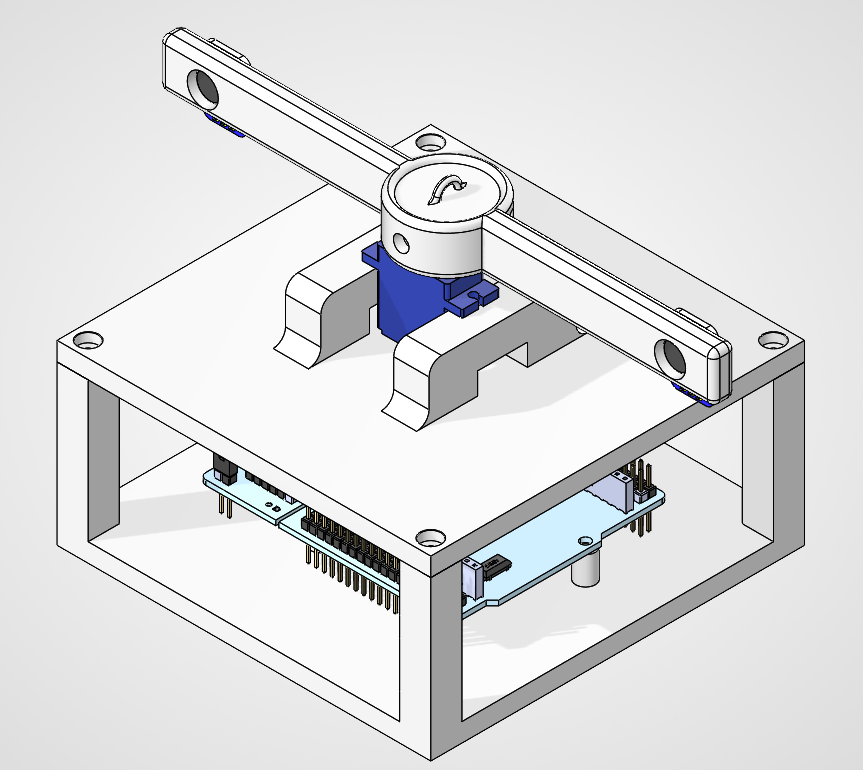
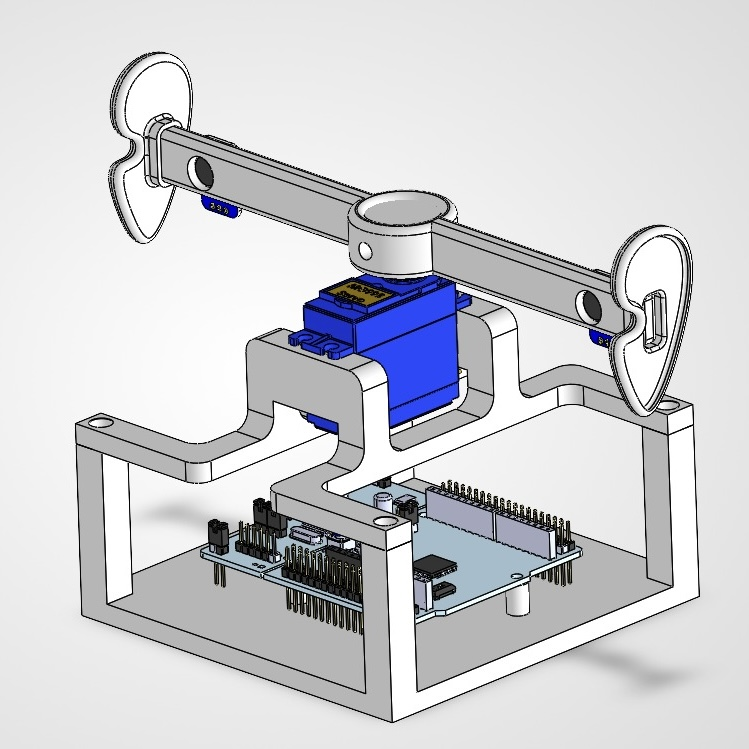
Finalized report

diff --git a/README.md b/README.md
@@ -5,6 +5,8 @@
 | Samuele Ribaudo | 03821248 | samuele.ribaudo@tum.de |
 | Hong Yan Jun  | 03813507 | go75kes@mytum.de |
 
+> To see the engineering challenges we encountered and our solutions to overcome them, check out the [technical report ↗](documentation/techincal_report.md)
+
 ## 1. Project overview
 
 This project is a robotic "hearing" system that can detect where a sound is coming from and automatically turn to face it.
@@ -48,7 +50,7 @@ To overcome the processing limitations of the micro controller and the physical 
 | Acoustic foam block | 1 | High-density foam sponge to block rear audio signals. |
 | RGB LED | 1 | A 4 pin RGB LED that provides real-time visual feedback of the state machine. It acts as a crucial flag for modular robotic design, flashing red when the target escapes the 180° physical field of hearing to trigger a "handoff" to a theoretical humanoid torso. |
 | 330 Ohm resistor | 3 | Resistors placed in series with the RGB LED channels to prevent overcurrent damage. |
-| PLA filament (3D Printing) | 1 | Material for printing the frame, board and servo mounts. |
+| PLA and TPU filament (3D Printing) | 1 | Material for printing the frame, board, servo mounts and ears (TPU). |
 | Assorted wires | 1 | General circuit routing and power distribution. |
 
 ---
@@ -57,29 +59,32 @@ To overcome the processing limitations of the micro controller and the physical 
 The system architecture utilizes dedicated hardware peripherals on the NUCLEO-U083RC board to handle high-speed data acquisition and actuation without blocking core application logic. The diagram below details the exact physical signal and power routing for each system component.
 
 ```text
-                                +-------------------------------+
-                                |     STM32U083RC (Nucleo)      |
-        Analog Left Mic         |                               |       180° Servo Morot
-    +--------------------+      |                               |      +------------------+
-    |     OUT / Signal  o|----->|[PC0]                    [PA15]|----->|o  PWM signal     |
-    |              VCC  o|------|[5V]                       [5V]|------|o  VCC            |
-    |              GND  o|------|[GND]                     [GND]|------|o  GND            |
-    +--------------------+      |         +-----------+         |      +------------------+
-                                |         |           |         |
-        Analog Right Mic        |         |   STM32   |         |           RGB LED
-    +--------------------+      |         |           |         |      +------------------+
-    |     OUT / Signal  o|----->|[PC1]    +-----------+   [PB13]|----->|o  Red channel    |
-    |              VCC  o|------|[5V]                     [PB14]|----->|o  Green channel  |
-    |              GND  o|------|[GND]                    [PB15]|----->|o  Blue channel   |
-    +--------------------+      |                          [GND]|------|o  GND            |
-                                |                               |      +------------------+
-                                +-------------------------------+
+                                ┌───────────────────────────────┐
+                                │     STM32U083RC (Nucleo)      │                               5V power supply
+                                │                               │                             ┌────────────────┐
+                                │                          [GND]│─────────────────────────────│o  GND          │
+                                │                          [VDD]│───┬─────────────────────────│o  5V           │
+        Analog Left Mic         │                               │   │   180° Servo Morot      └────────────────┘
+    ┌────────────────────┐      │                               │   │  ┌──────────────────┐
+    │     OUT / Signal  o│─────>│[PC0]                          │   └──│o  VCC            │
+    │              VCC  o│──────│[5V]                     [PA15]│─────>│o  PWM signal     │
+    │              GND  o│──────│[GND]                     [GND]│──────│o  GND            │
+    └────────────────────┘      │         ┌───────────┐         │      └──────────────────┘
+                                │         │           │         │
+        Analog Right Mic        │         │   STM32   │         │           RGB LED
+    ┌────────────────────┐      │         │           │         │      ┌──────────────────┐
+    │     OUT / Signal  o│─────>│[PC1]    └───────────┘   [PB13]│─────>│o  Red channel    │
+    │              VCC  o│──────│[5V]                     [PB14]│─────>│o  Green channel  │
+    │              GND  o│──────│[GND]                    [PB15]│─────>│o  Blue channel   │
+    └────────────────────┘      │                          [GND]│──────│o  GND            │
+                                │                               │      └──────────────────┘
+                                └───────────────────────────────┘
 ```
 
 To improve system readability and simplify debugging, we adopted a standardized, purpose-driven wire coloring scheme:
 
 | Wire color | Purpose / Connection |
-| :--- | :--- |
+| --- | --- |
 | White | Main 5V power supply line routed to the components. |
 | Black | Common Ground (GND) connection to establish a shared reference plane. |
 | Red | Digital control for the RGB LED Red channel. |
@@ -182,3 +187,36 @@ stateDiagram-v2
 * `STATE_OUT_OF_BOUNDS` (Red Flash): The out-of-bounds flag is cleared, and the system flashes the red LED to provide a visual warning that the target exceeded the 180° physical limit. Once the flashing sequence finishes, it returns to `STATE_LISTEN`.
 
 ---
+
+## 8. System validation and results
+
+The digital signal processing (DSP) pipeline was fully validated on the NUCLEO-U083RC microcontroller, proving that the real-time cross-correlation and Time Delay of Arrival (TDOA) algorithms accurately track acoustic sources.
+
+### 8.1 Signal filtering performance
+To isolate human speech from environmental noise, the incoming audio passes through a custom 6th-order Butterworth bandpass filter (300 Hz to 3000 Hz). As shown below, the filter successfully suppresses low-frequency hums (100 Hz) and high-frequency noise (6 kHz), completely flattening the noise floor to provide clean signals for cross-correlation:
+
+![Signal Filtering Output](documentation/utils/analysis_baseline.png)
+> *Figure: Raw recording with environmental noise disturbances (top) and the resulting clean, flattened noise floor after 6th-order filtering (bottom).*
+
+### 8.2 Pipeline execution and sound tracking
+When a sound is detected, the conditioned signals undergo a boundary-optimized cross-correlation to pinpoint the exact time delay. 
+
+The system validation capture below highlights a successful test with a sound source on the right side. The pipeline filters out heavy background noise and produces a sharp, singular cross-correlation peak at a 22-sample lag. This precise shift allows the geometric logic to accurately calculate the angle and smoothly actuate the servo motor toward the target.
+
+![Pipeline and Cross-Correlation Validation](documentation/utils/analysis_right.png)
+> *Figure: Complete validation of a right-side tracking test showing raw signals (top), filtered speech waveforms (middle), and the distinct cross-correlation peak used for TDOA calculation (bottom).*
+
+
+---
+
+## 9. Conclusions
+
+The development of the Real-Time Sound Source Localization and Tracking System yielded highly satisfactory results. The custom DSP pipeline executes entirely on the MCU and works exceptionally well to accurately calculate the Time Delay of Arrival (TDOA).
+
+While 1D horizontal tracking is fully functional, the primary limitation of the current two-microphone array is the cone of confusion, which is the geometric ambiguity where sounds originating from the front and back (or at different elevations) produce identical time delays. 
+
+To overcome this, future iterations of the project can explore two distinct paths for 3D localization:
+
+* **Adding a third microphone**: Introducing a third microphone to form a planar triangular array. This extra spatial dimension would provide a secondary TDOA axis, completely resolving front/back ambiguity and enabling full 2D azimuth and elevation tracking.
+
+* **Biomimetic spectral mapping**: Replicating the acoustic filtering of the human pinna (outer ear). By designing custom acoustic structures around the existing two microphones, incoming sound waves will bounce and attenuate differently depending on their angle of incidence. Because these unique spectral patterns modify the frequency response, a machine learning model or an AI-driven mapping pipeline could be trained to recognize these signatures, enabling true 3D localization using only two channels.

diff --git a/documentation/techincal_report.md b/documentation/techincal_report.md
@@ -93,7 +93,7 @@ stateDiagram-v2
 
 ---
 
-## 4. CAD design
+## 4. CAD design (Ryan)
 For the CAD design, we started with a first sketch and then bring it into 3-dimensional space with Solidworks. The first design was a proof of concept so that we could be sure that the system could actually be implemented physically and all the components could be connected functionally with each other. We started designing the system with a rough estimate of the measurements because we did not have the components yet. After receiving the components, we had to implement the correct measurements in our design. so that Once the first design has been materialized and our first prototype was fully functional, we switch our focus on the aesthetic aspect of the design to make look cooler instead of just square edges everywhere. In the first design, the cables connection were quite messy, so we decided to hide them away in the bar as this will give the system a much cleaner look.
 
 <div style="display: flex; gap: 10px;">
@@ -114,12 +114,14 @@ For the CAD design, we started with a first sketch and then bring it into 3-dime
 
 
 ## 5. Hardware fabrication (Ryan)
+
+### 5.1 Connections
 In the initial prototyping phase, the components were connected using traditional jumper cables and a breadboard. To reduce the system's footprint and eliminate the need for a bulky external breadboard, we soldered the common grounds and VCC connections directly into unified lines. Additionally, 330 Ohm current-limiting resistors were embedded directly inside the wires leading to the RGB LED channels to protect the hardware from overcurrent damage. 
 
 To improve system readability and simplify debugging, we adopted a standardized, purpose-driven wire coloring scheme:
 
 | Wire color | Purpose / Connection |
-| :--- | :--- |
+| --- | --- |
 | White | Main 5V power supply line routed to the components. |
 | Black | Common Ground (GND) connection to establish a shared reference plane. |
 | Red | Digital control for the RGB LED Red channel. |
@@ -129,7 +131,37 @@ To improve system readability and simplify debugging, we adopted a standardized,
 | Purple | Analog output signal transmission from the left microphone. |
 | Yellow | Analog output signal transmission from the right microphone. |
 
-Another hardware challenge involved the servo motor, which exhibited aggressive perturbations whenever the bar reached the 90° center point facing forward. After consulting with our supervisor, we decided to use a brand new servo motor. While replacing the unit with a brand new servo motor initially resolved the issue, the perturbations returned after extensive testing. We suspect this instability stems from voltage fluctuations in the servo motor's power source rather than a mechanical failure.
+### 5.2 The servo challenge
+
+Another hardware challenge involved the original servo motor, which suffered from aggressive perturbations at the 90° center position due to insufficient holding torque. To address this, we upgraded to a larger, higher-torque actuator. However, this new motor required a higher operating current than the Nucleo board could safely supply. 
+
+To resolve this without destabilizing the system, we engineered an external power distribution architecture by repurposing a standard 5V wall adapter. We modified the cable termination to solder a shared ground line that is plugged directly to the board's GND pin, establishing a common reference plane, while splitting the positive power rail into two dedicated connections. The first positive line routes directly to the servo's VCC input to isolate its heavy electrical load from the microcontroller, while the second connects directly to the board's power pin (VDD). This custom wiring harness successfully decoupled the actuator's power draw, eliminated the voltage-induced perturbations, and allowed the system to operate autonomously without relying on a PC USB connection.
+
+### 5.3 Signal routing and physical connections
+The diagram below details the exact physical signal and power routing for each system component.
+
+```text
+                                ┌───────────────────────────────┐
+                                │     STM32U083RC (Nucleo)      │                               5V power supply
+                                │                               │                             ┌────────────────┐
+                                │                          [GND]│─────────────────────────────│o  GND          │
+                                │                          [VDD]│───┬─────────────────────────│o  5V           │
+        Analog Left Mic         │                               │   │   180° Servo Morot      └────────────────┘
+    ┌────────────────────┐      │                               │   │  ┌──────────────────┐
+    │     OUT / Signal  o│─────>│[PC0]                          │   └──│o  VCC            │
+    │              VCC  o│──────│[5V]                     [PA15]│─────>│o  PWM signal     │
+    │              GND  o│──────│[GND]                     [GND]│──────│o  GND            │
+    └────────────────────┘      │         ┌───────────┐         │      └──────────────────┘
+                                │         │           │         │
+        Analog Right Mic        │         │   STM32   │         │           RGB LED
+    ┌────────────────────┐      │         │           │         │      ┌──────────────────┐
+    │     OUT / Signal  o│─────>│[PC1]    └───────────┘   [PB13]│─────>│o  Red channel    │
+    │              VCC  o│──────│[5V]                     [PB14]│─────>│o  Green channel  │
+    │              GND  o│──────│[GND]                    [PB15]│─────>│o  Blue channel   │
+    └────────────────────┘      │                          [GND]│──────│o  GND            │
+                                │                               │      └──────────────────┘
+                                └───────────────────────────────┘
+```
 
 ---
 
@@ -193,8 +225,10 @@ Even though harder to read, we deliberately chose to perform and maintain all an
 
 The development of the Real-Time Sound Source Localization and Tracking System yielded highly satisfactory results. The custom DSP pipeline executes entirely on the MCU and works exceptionally well to accurately calculate the Time Delay of Arrival (TDOA).
 
-While the core acoustic and computational goals were achieved, we identified the following areas for future improvement:
+While 1D horizontal tracking is fully functional, the primary limitation of the current two-microphone array is the cone of confusion, which is the geometric ambiguity where sounds originating from the front and back (or at different elevations) produce identical time delays. 
 
-* **Robust actuation:** Switching to a more powerful, metal-geared servo motor to prevent the continuous mechanical breakdowns experienced during testing.
+To overcome this, future iterations of the project can explore two distinct paths for 3D localization:
 
-* **Dedicated power supply:** Adding an external 5V power source for the servo motor to prevent it from drawing excessive current from the board, directly addressing the voltage fluctuations and instability observed during actuation.
+* **Adding a third microphone**: Introducing a third microphone to form a planar triangular array. This extra spatial dimension would provide a secondary TDOA axis, completely resolving front/back ambiguity and enabling full 2D azimuth and elevation tracking.
+
+* **Biomimetic spectral mapping**: Replicating the acoustic filtering of the human pinna (outer ear). By designing custom acoustic structures around the existing two microphones, incoming sound waves will bounce and attenuate differently depending on their angle of incidence. Because these unique spectral patterns modify the frequency response, a machine learning model or an AI-driven mapping pipeline could be trained to recognize these signatures, enabling true 3D localization using only two channels.

diff --git a/documentation/README.md b/documentation/README.md
@@ -1,6 +1,6 @@
 # Academic Documentation
 
-This directory contains the central guidelines, proposals, presentations, and technical records for the real-time sound source localization and tracking project.
+This directory contains the central guidelines, proposals, presentations, and technical reports for the real-time sound source localization and tracking project.
 
 ---
 
@@ -11,4 +11,4 @@ This directory contains the central guidelines, proposals, presentations, and te
 | **`project_description.pdf`** | Reference | Official project guidelines, requirements, and grading criteria provided by the instructor at TUM. |
 | **`project_proposal.md`** | Specification | Comprehensive proposal detailing system architecture, hardware/software specifications, state machine mechanics, and explicit team workload distribution. |
 | **`pitch_presentation.pdf`** | Presentation | Brief pitch presentation deck summarizing the core robotic concept, operational finite state machine workflow, and required materials. |
-| **`technical_report.md`** | Final Deliverable | Core comprehensive engineering and scientific group report developed in strict accordance with the instructor guidelines. |
+| **`technical_report.md`** | Final deliverable | Core comprehensive engineering and scientific group report developed in strict accordance with the instructor guidelines. |
